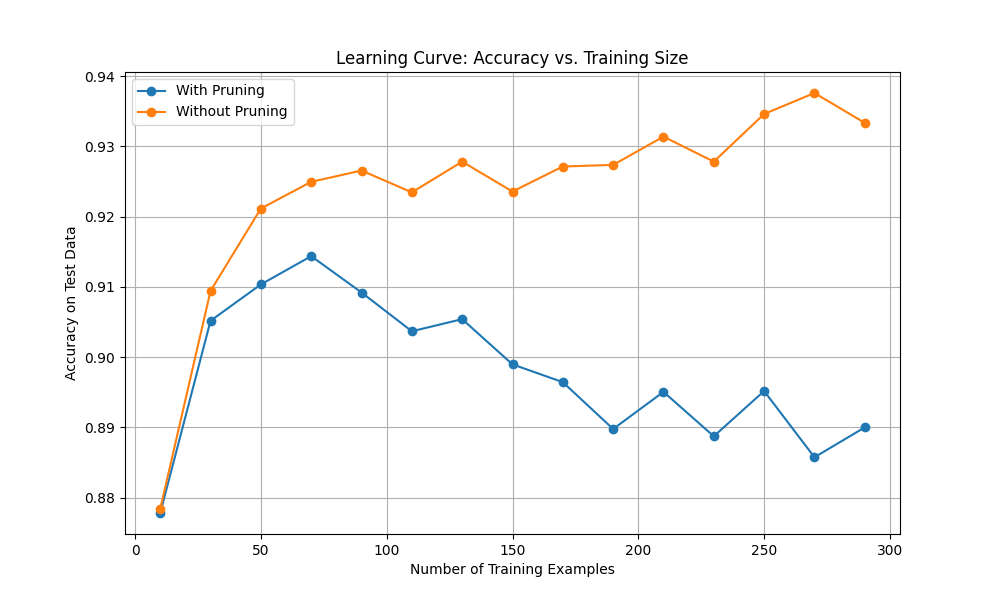
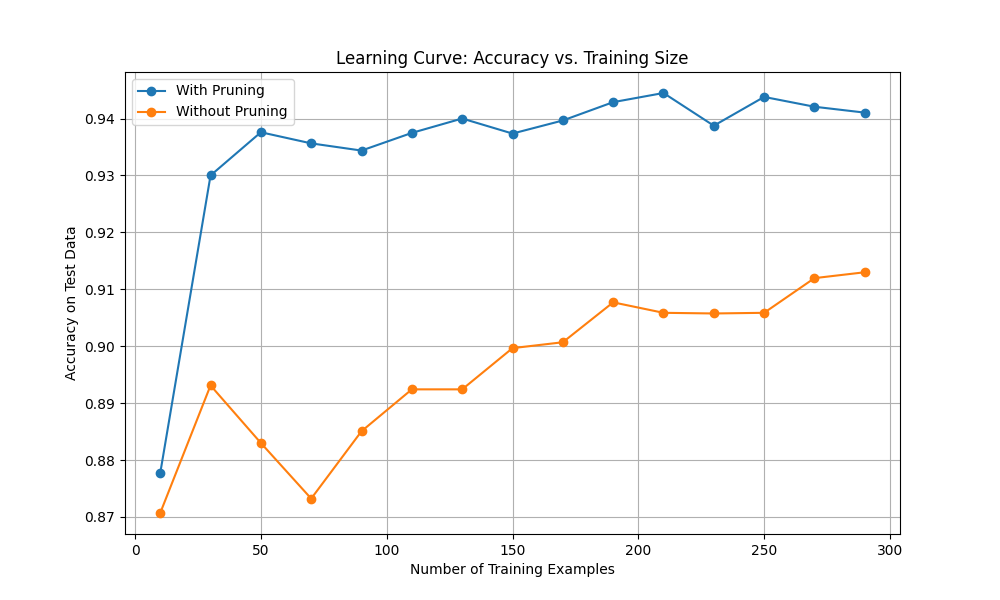
fuck

diff --git a/ID3.py b/ID3.py
@@ -4,14 +4,16 @@ import numpy as np
 import parse
 import copy
 import unit_tests
+from PrettyPrint import PrettyPrintTree
 
-def ID3(input_examples: list[dict], default):
+def ID3(data: list[dict], default):
     '''
     Takes in an array of examples, and returns a tree (an instance of Node) 
     trained on the examples. Each example is a dictionary of attribute:value pairs,
     and the target class variable is a special attribute with the name "Class".
     Any missing attributes are denoted with a value of "?"
     '''
+    input_examples = copy.deepcopy(data)
 #---------------------------HELPER FUNCTIONS SECTION---------------------------------
     def h(freq: float) -> float:
         '''
@@ -21,7 +23,7 @@ def ID3(input_examples: list[dict], default):
             return 0
         return -1 * freq * np.log2(freq)
 
-    def get_da(attribute: str, value: str, examples: list[dict]) -> list:
+    def get_da(a_star: str, value: str, examples: list[dict]) -> list:
         '''
         Helper function, computes D_a.
         Takes in an attribute and a value,
@@ -29,11 +31,11 @@ def ID3(input_examples: list[dict], default):
         have the given value for the given attribute.
         '''
         d_a = []
-        for e in examples:
-            if attribute not in e:
-                return []
-            if e[attribute] == value:
-                d_a.append(e)
+        data = examples
+        for e in data:
+            if a_star in e:
+                if e[a_star] == value:
+                    d_a.append(e)
         return d_a
     
     def possible_values_getter(attribute: str, examples: list[dict]) -> list:
@@ -88,22 +90,34 @@ def ID3(input_examples: list[dict], default):
             
 
         return h_parent - h_children
+    
 
     def find_best_split(examples: list[dict], attributes: list[str]) -> str:
+        if(attributes == []):
+            #print("ATTRIBUTE EMPTY!")
+            return
+        if(examples == []):
+            #print("EXAMPLES EMPTY")
+            return
         max_gain = info_gain(examples, attributes[0])
-        a_star = attributes[0]          #initialize the variable with the first 
+        a_star = attributes[0]        #initialize the variable with the first 
         for a in attributes:
             gain = info_gain(examples, a)
             if gain > max_gain:
                 max_gain = gain
                 a_star = a
+        
         return a_star
 
 #---------------------------END OF HELPER FUNCTIONS SECTION---------------------------------
-
-    if not input_examples:
+   
+    #print("------------")
+    if input_examples == []:
         leaf = Node()
         leaf.add_label(default)
+        leaf.add_data(input_examples)
+        #print("EXAMPLES EMPTY")
+        #print("----------------")
         return leaf
 
     # If all examples have the same class label, return a leaf node with that label
@@ -111,55 +125,106 @@ def ID3(input_examples: list[dict], default):
     if len(set(class_values)) == 1:
         leaf = Node()
         leaf.add_label(class_values[0])
+        leaf.add_data(input_examples)
+        #print("HOMOGENEOUS")
+       #print("-----------------")
         return leaf
 
+    #print(len(input_examples))
+    attributes = [attr for attr in input_examples[0].keys() if attr != 'Class']
+    #print(attributes)
     # If no attributes left to split on, return a leaf node with the most common class label
-    attributes: list[str] = [attr for attr in input_examples[0].keys() if attr != 'Class']
-    if not attributes:
+   
+    if attributes == []:
         leaf = Node()
         most_common_class_value = max(set(class_values), key=class_values.count)
         leaf.add_label(most_common_class_value)
+        leaf.add_data(input_examples)
+        #print("NO ATTRIBUTE LEFT TO SPLIT ON")
+        #print("--------------")
         return leaf
 
     # Find the best attribute to split on
     a_star = find_best_split(input_examples, attributes)
+    #print("A* at line 142 is", a_star)
     root = Node()
     root.add_decision_label(a_star)
     root.add_data(input_examples)
 
     # For each value of the best attribute, create a subtree
     a_star_values = possible_values_getter(a_star, input_examples)
-    print(a_star_values)
+    #print("A* values are:", a_star_values)
     for value in a_star_values:
+        #print("154 FOR LOOP VALUE = ", value)
+        #print("155 SIZE OF EXAMPLE = ", len(input_examples))
         d_a = get_da(a_star, value, input_examples)
-        print("D_a", d_a)
-        print("A*", a_star)
-        print("A* = ", value)
+        #print("Size of the D_a just got", len(d_a))
+        #print("A* = ", a_star)
         if d_a == []:
             child = Node()
             most_common_class_value = max(set(class_values), key=class_values.count)
             child.add_label(most_common_class_value)
+            child.add_data(d_a)
             root.children[value] = child
+            #print("-----D_a empty-----")
         else:
-            for d in d_a:
+            d_a_copy = copy.copy(d_a)
+            for d in d_a_copy:
                 del d[a_star]
+            #print("Adding Child, D_a size is ", len(d_a))
             child = ID3(d_a, default)
             root.children[value] = child
-
+    #print("-------------------")
     return root
 
 
 
 
-
-def prune(node, examples):
+def prune(tree, examples):
   '''
   Takes in a trained tree and a validation set of examples.  Prunes nodes in order
   to improve accuracy on the validation data; the precise pruning strategy is up to you.
   '''
- 
+  
+  def dict_to_list(example):
+    dict_list = []
+    for k in example.keys():
+        dict_list += [(k, example[k])]
+    return dict_list
+
+  def rec_prune(node, path):
+    nonlocal tree
+    nonlocal examples
+    if node.decision_label == None:
+        return
     
-    
+    for key in node.children.keys():
+        child = node.children[key]
+        rec_prune(child, path + [(node.decision_label, key)])
+
+    class_values = []
+    for e in examples:
+        if set(path) < set(dict_to_list(e)):
+            class_values += [e['Class']]
+    saved_tree = copy.deepcopy(tree)
+    if class_values != []:
+        node.decision_label = None
+        node.children = {}
+        node.label = max(set(class_values), key = class_values.count)
+        
+    if test(tree, examples) < test(saved_tree, examples):
+        tree = saved_tree
+
+    return
+  
+  rec_prune(tree, [])
+  return tree
+
+
+      
+      
+
+      
 
 
 def test(node, examples):
@@ -187,6 +252,7 @@ def evaluate(node, example):
   if tree.decision_label == None:
     return tree.label
   else:
+    #print(example)
     example_value = example[tree.decision_label]
     if example_value in tree.children:
         return evaluate(tree.children[example_value], example)

diff --git a/unit_tests.py b/unit_tests.py
@@ -58,7 +58,7 @@ def testID3AndTest():
 
 # inFile - string location of the house data file
 def testPruningOnHouseData():
-  inFile = 'house_votes_84.data'
+  inFile = 'tennis.data'
   withPruning = []
   withoutPruning = []
   data = parse.parse(inFile)
@@ -76,7 +76,7 @@ def testPruningOnHouseData():
     acc = ID3.test(tree, test)
     print("test accuracy: ",acc)
   
-    ID3.prune(tree, valid)
+    tree = ID3.prune(tree, valid)
     acc = ID3.test(tree, train)
     print("pruned tree train accuracy: ",acc)
     acc = ID3.test(tree, valid)

diff --git a/learn_curve.py b/learn_curve.py
@@ -41,7 +41,7 @@ def learning_curve(data, train_sizes=list(range(10, 310, 20)), num_runs=100):
 
             # Train tree with pruning
             pruned_tree = copy.deepcopy(tree)
-            prune(pruned_tree, validation_data)
+            pruned_tree = prune(pruned_tree, validation_data)
             acc_with_pruning.append(test(pruned_tree, test_data))
 
         # Calculate average accuracies for this training size
